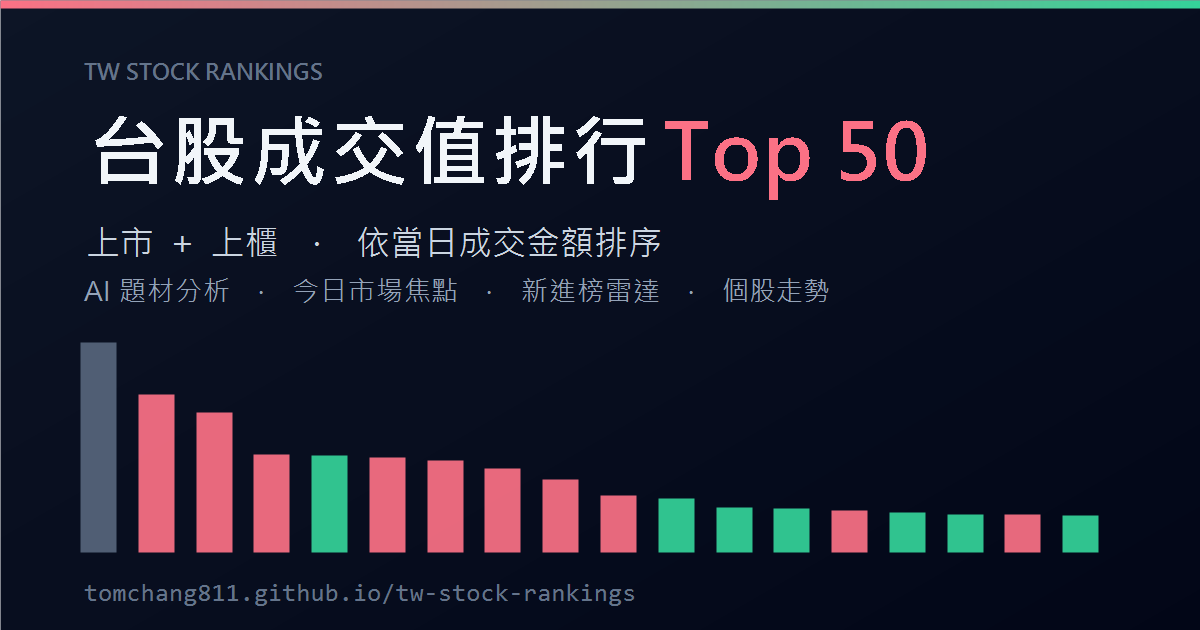
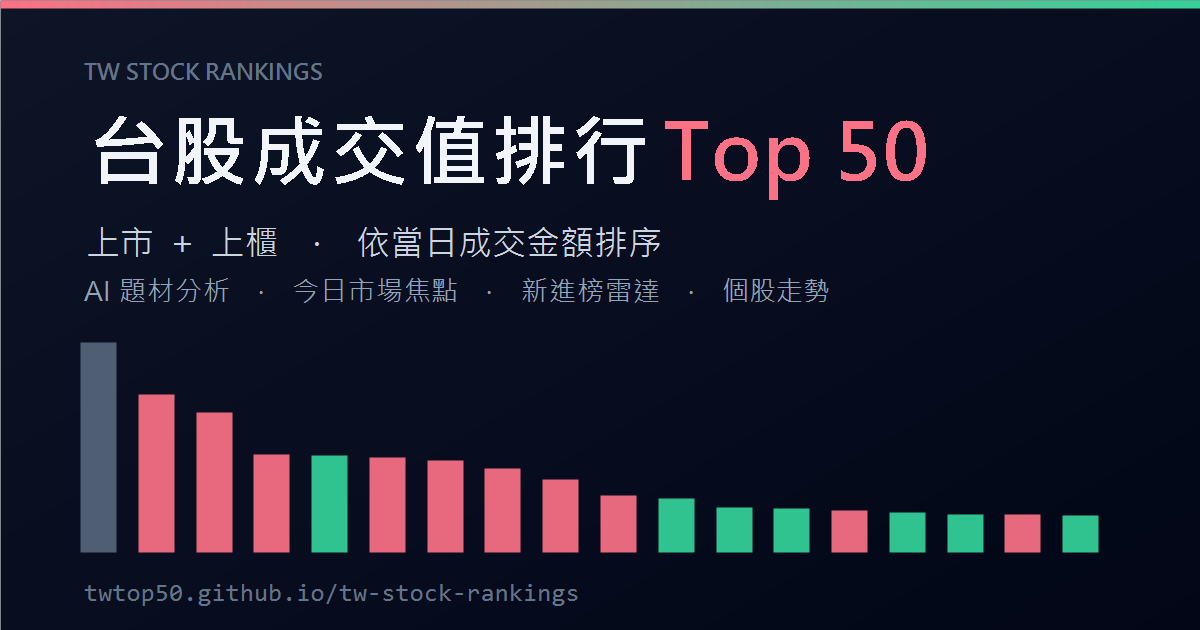
chore: 站台網址改為 twtop50.github.io（轉移到組織帳號）
- metadataBase / PREV_RANKINGS_URL / README 線上網址 → twtop50.github.io
- 重新生成 OG 分享圖（圖內網址同步更新）

Changed region(s): [[0.0617, 0.9349, 0.5242, 0.9651]]

diff --git a/src/app/layout.tsx b/src/app/layout.tsx
@@ -10,7 +10,7 @@ const OG_IMAGE = `${process.env.NEXT_PUBLIC_BASE_PATH || ""}/opengraph-image.png
 
 export const metadata: Metadata = {
   // GitHub Pages 網域；上方 OG_IMAGE 已含 basePath。
-  metadataBase: new URL("https://tomchang811.github.io"),
+  metadataBase: new URL("https://twtop50.github.io"),
   title: SITE_TITLE,
   description: SITE_DESC,
   keywords: ["台股", "上市", "上櫃", "成交值", "成交金額", "排行榜", "Top 50", "題材", "族群", "台積電"],

diff --git a/README.md b/README.md
@@ -1,6 +1,6 @@
 # 台股成交值排行 Top 50
 
-**🔗 線上：https://tomchang811.github.io/tw-stock-rankings/**
+**🔗 線上：https://twtop50.github.io/tw-stock-rankings/**
 
 台股（**上市＋上櫃**）依當日**成交金額**排序的每日排行榜，含 AI 題材／族群分析、今日市場焦點、新進榜雷達、在榜天數與個股走勢。為 **Next.js 靜態網站**，資料由每日排程預先產生為靜態 JSON，部署於 GitHub Pages。
 